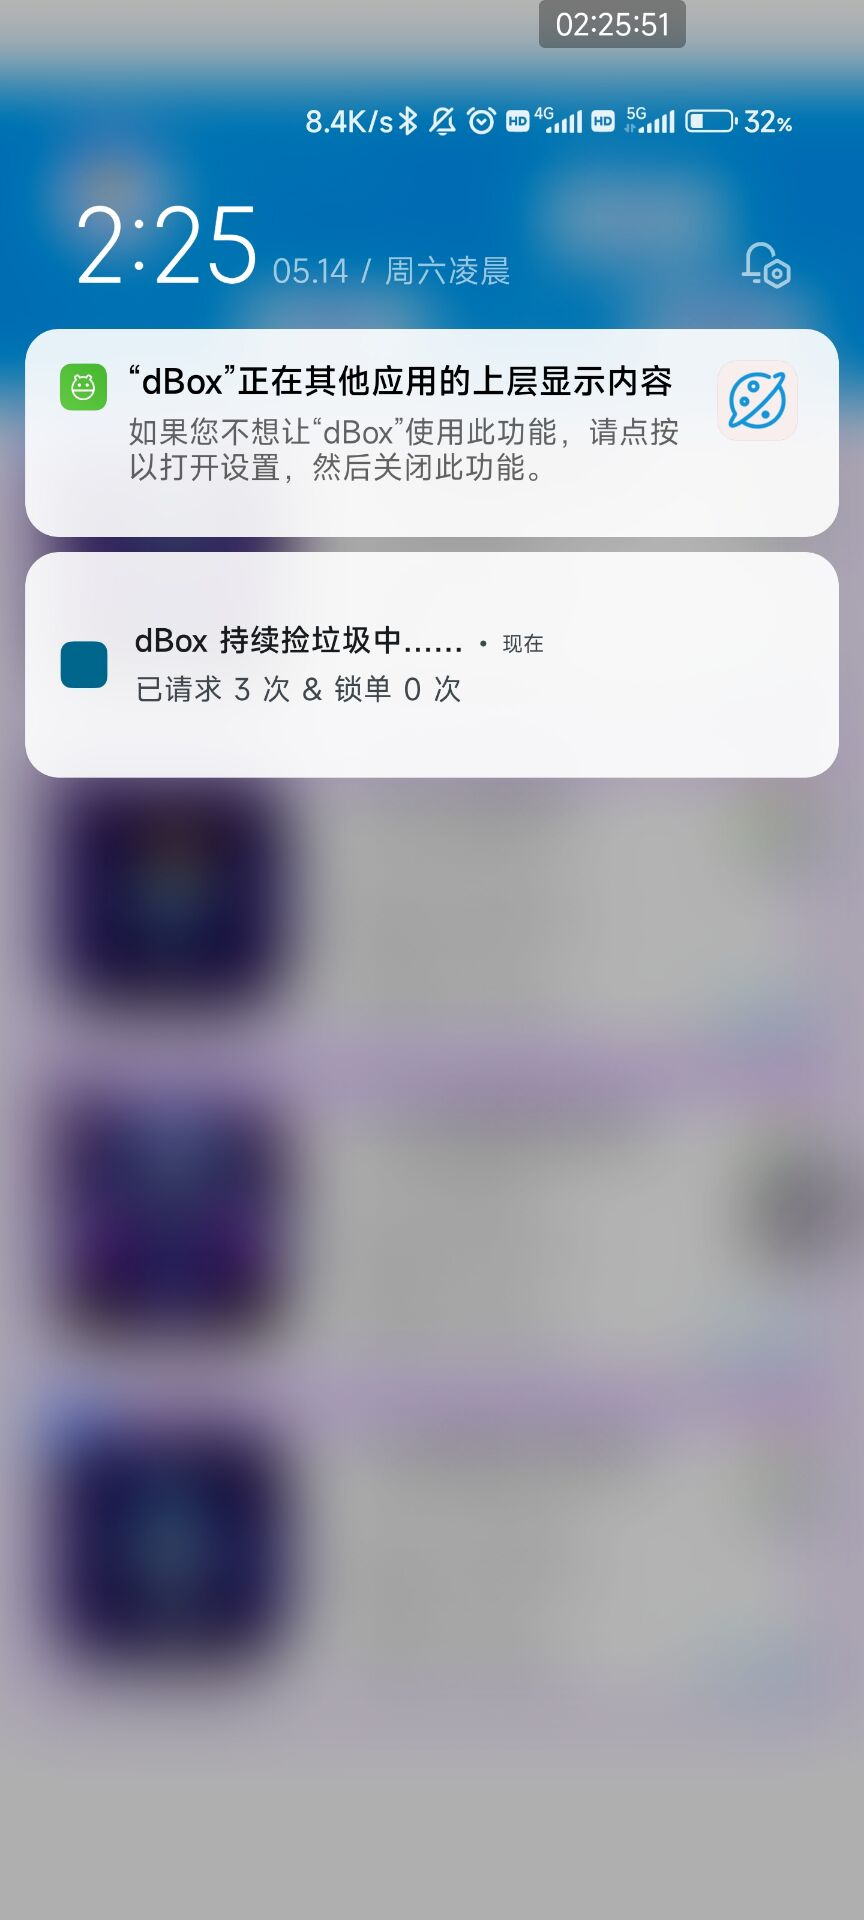
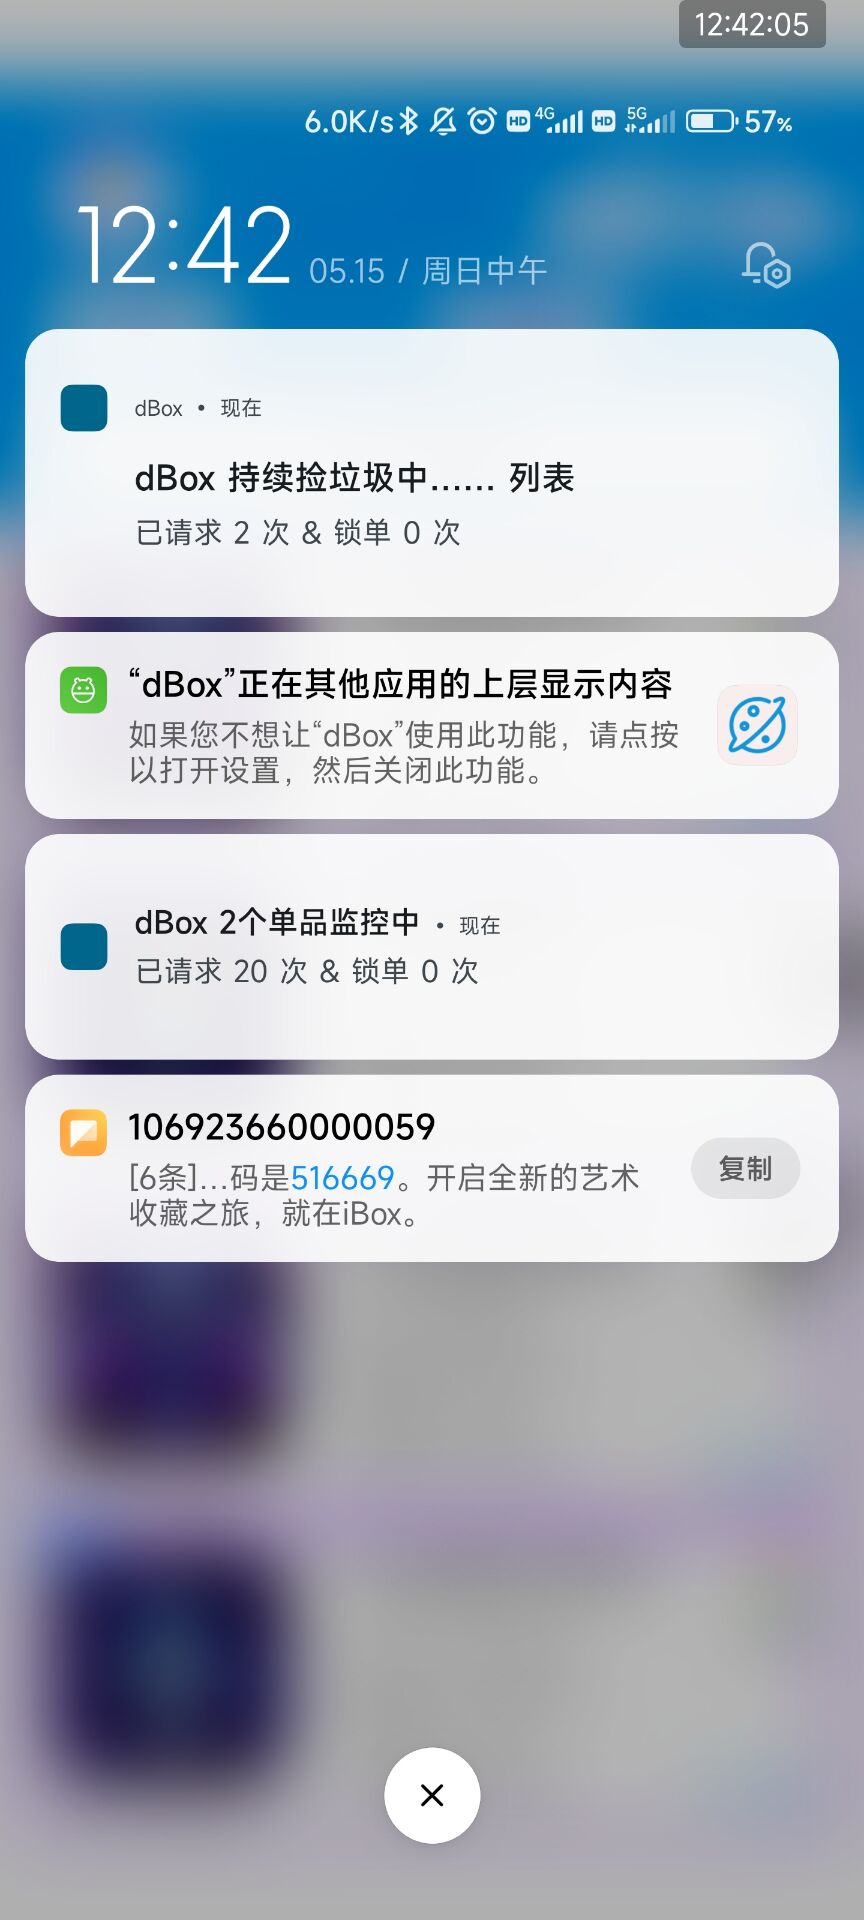
新增单品监控&同时监控多个单品&多任务同时监控

diff --git a/README.md b/README.md
@@ -4,7 +4,8 @@
 
 ## Intro
 
-- [x] 新增单品锁单
+- [x] 新增单品与寄售同时监控
+- [x] 新增单品锁单（同时监控多个单品）
 - [x] 藏品升序
 - [x] 藏品最新
 - [x] 设置监控藏品数量
@@ -24,6 +25,7 @@
 ![](ScreenShot/7.jpg)
 ![](ScreenShot/4.jpg)
 ![](ScreenShot/6.jpg)
+![](ScreenShot/11.jpg)
 ![](ScreenShot/5.jpg)
 ![](ScreenShot/3.jpg)
 ![](ScreenShot/2.jpg)
